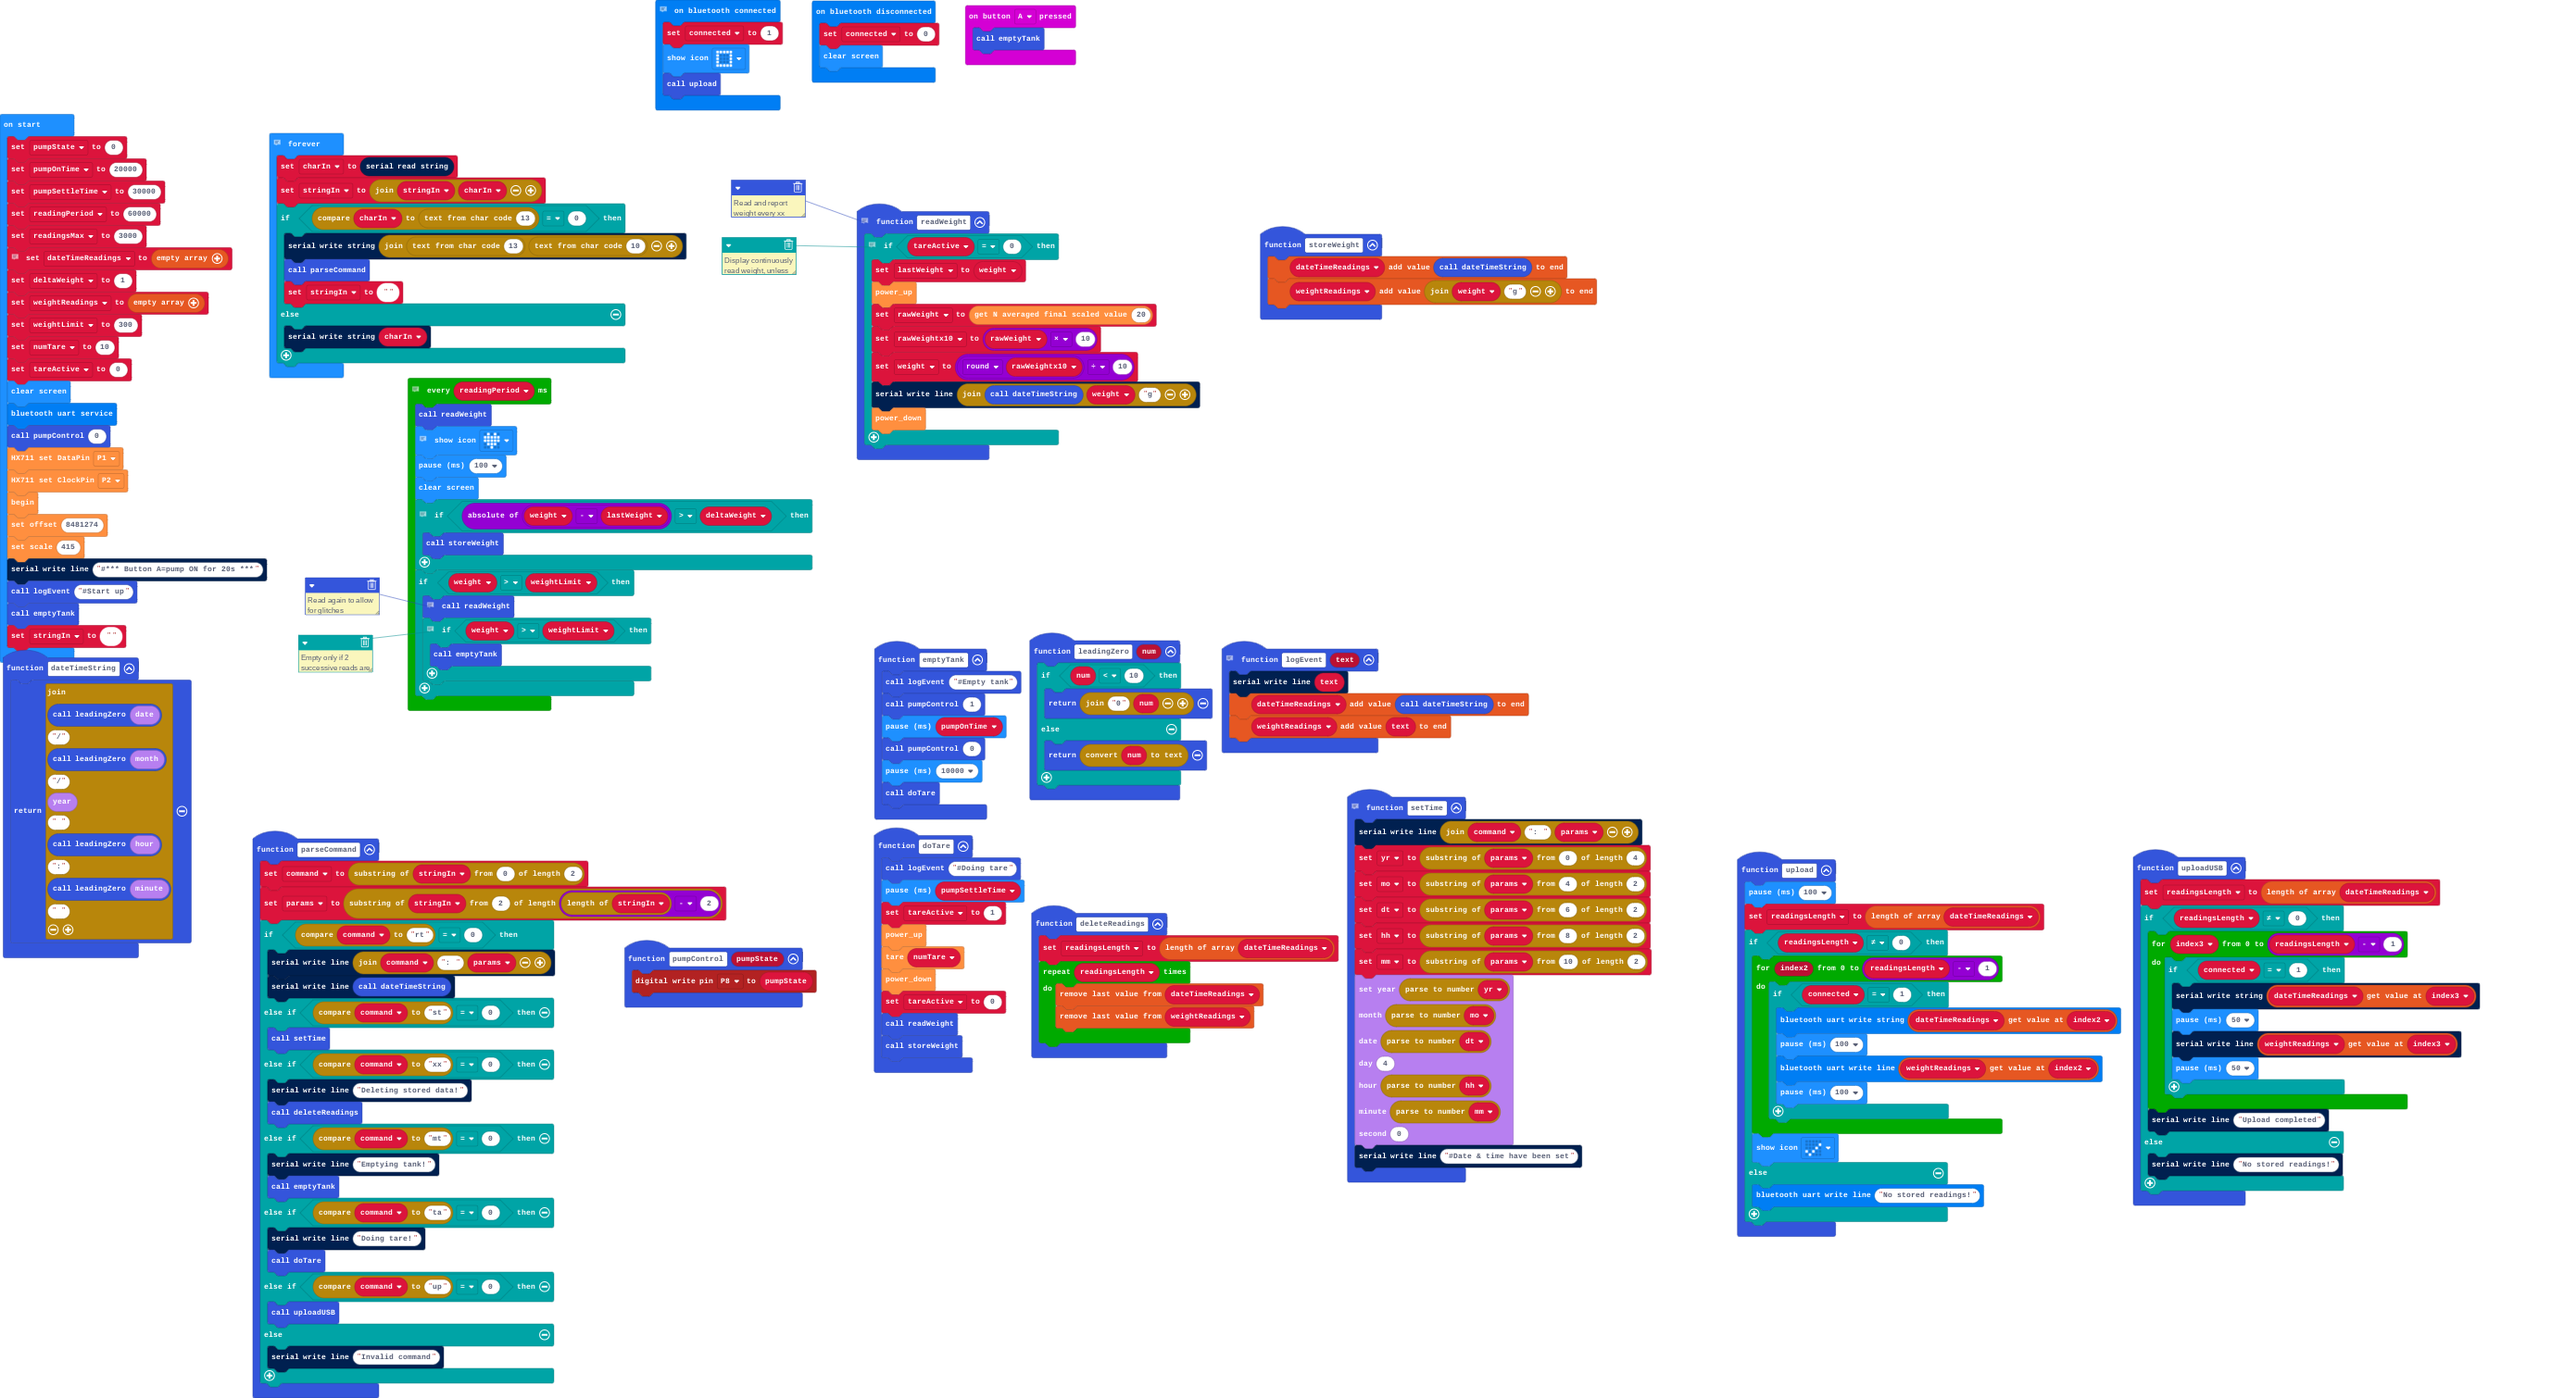
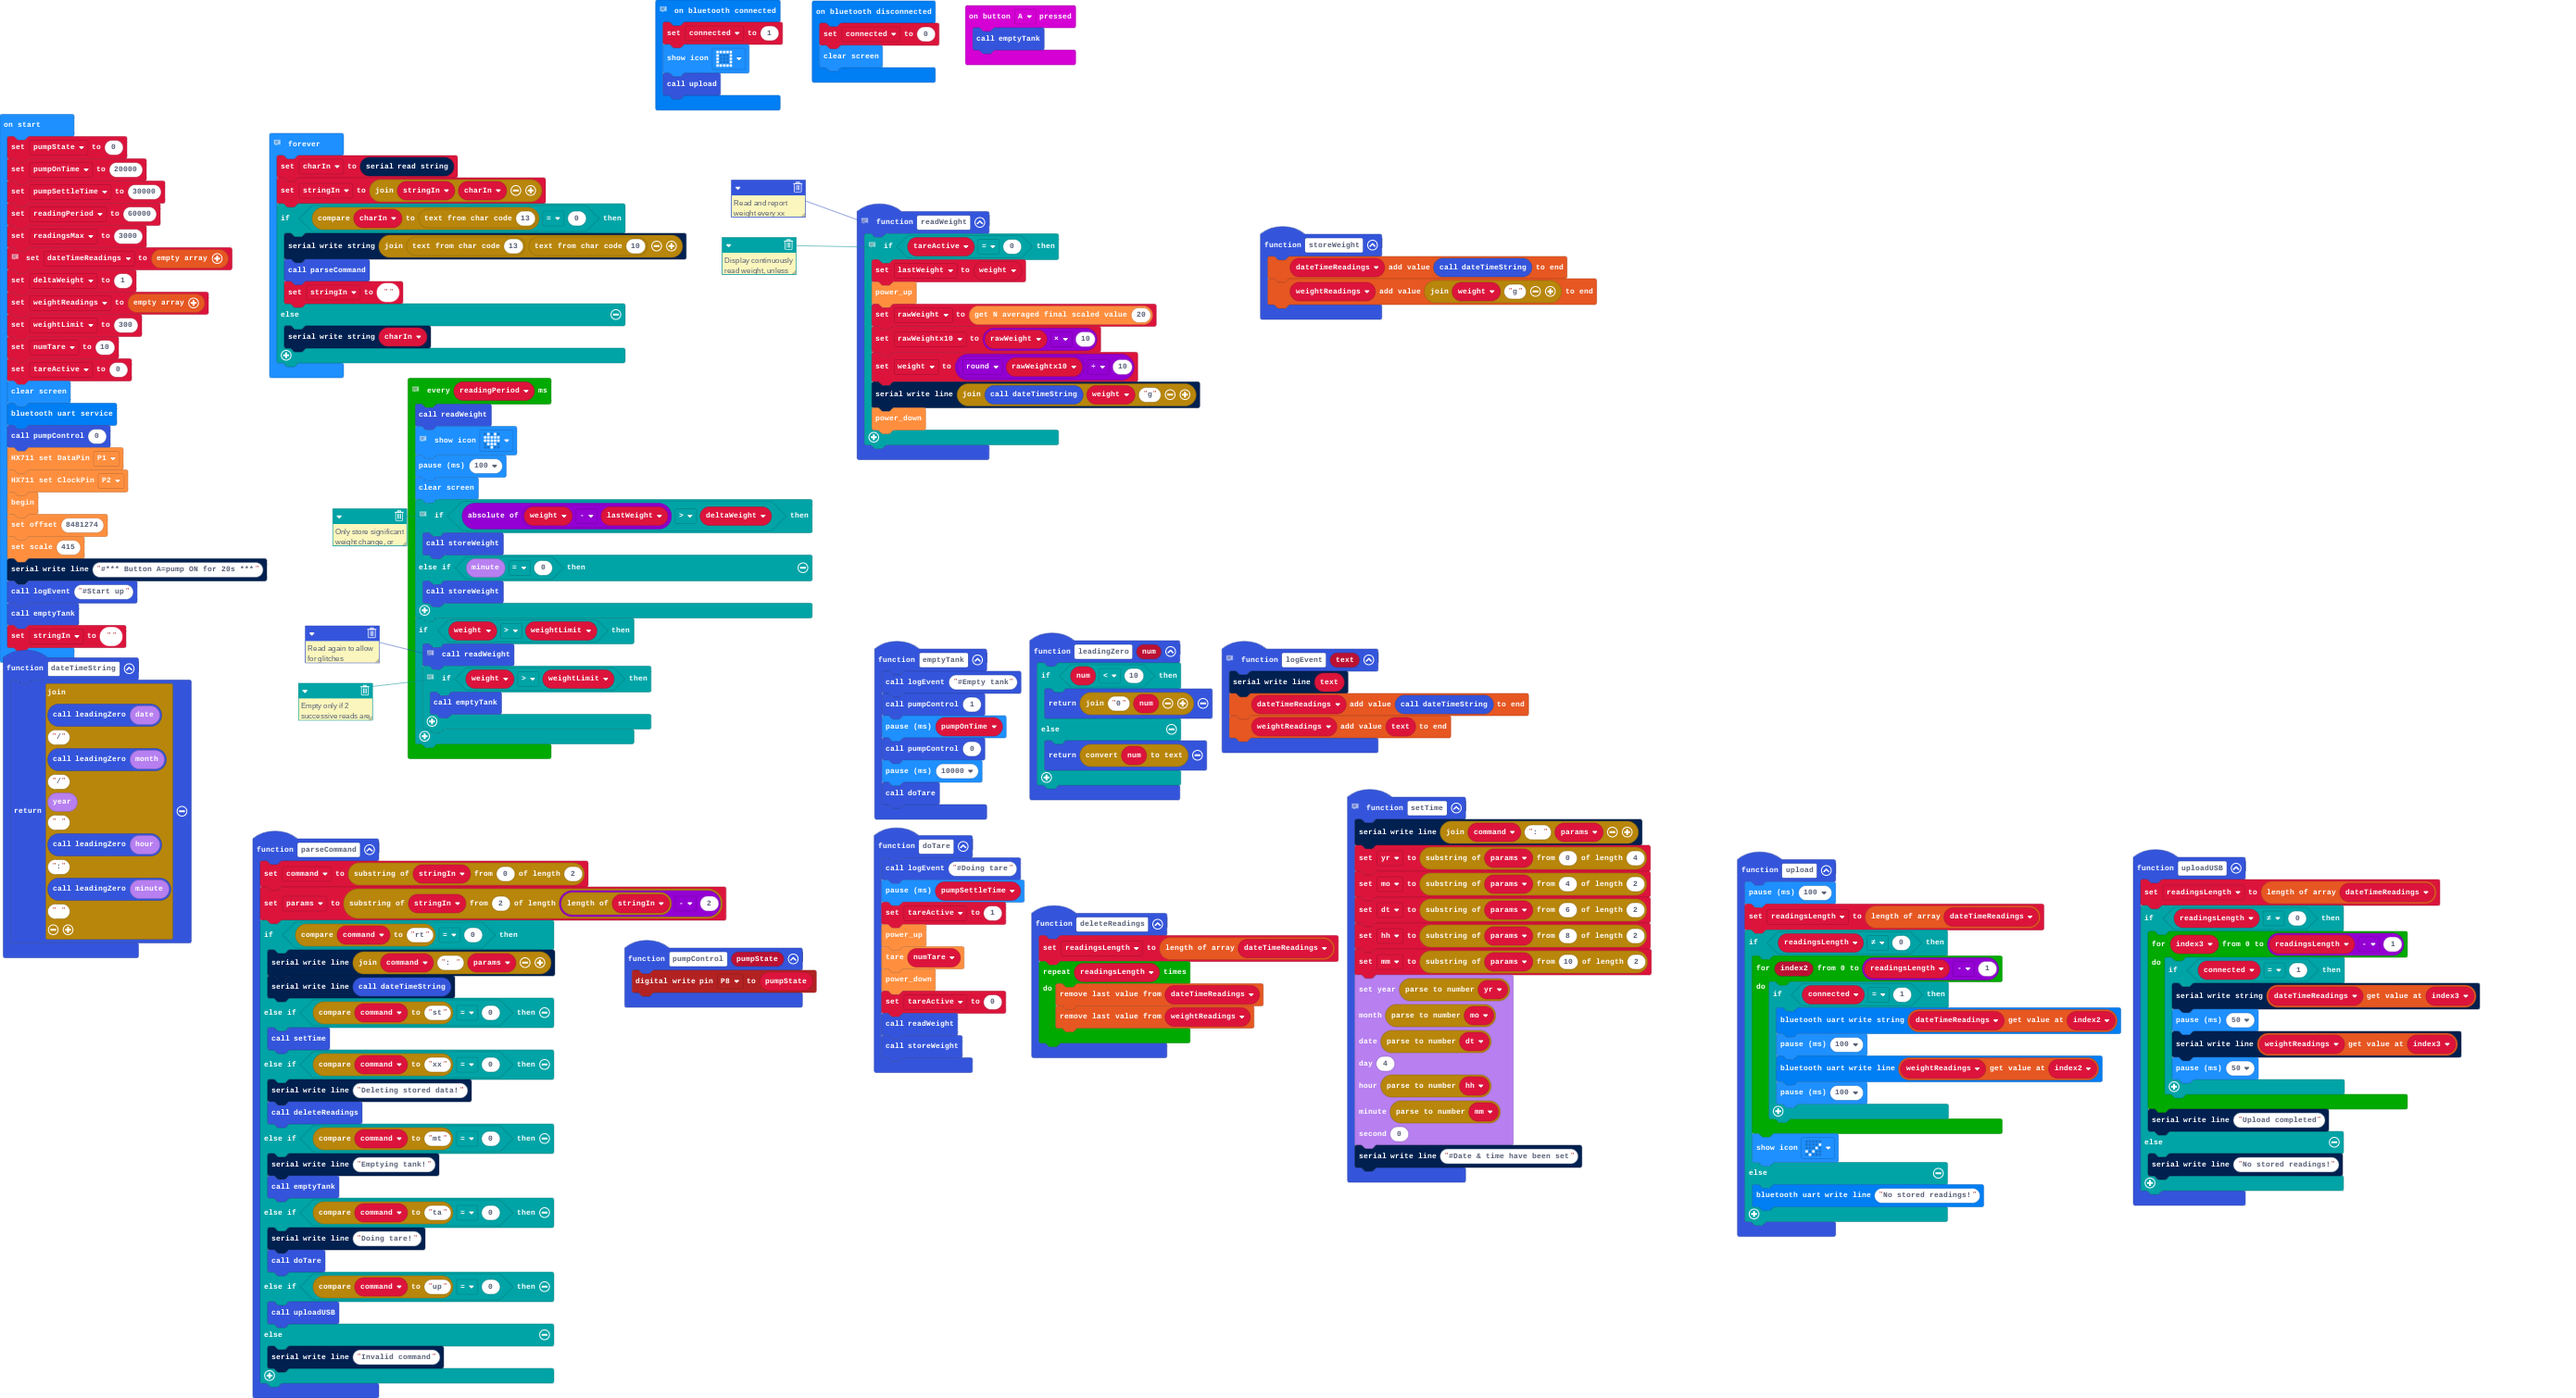
added hourly read

Changed region(s): [[0.0928, 0.3424, 0.3092, 0.5603]]

diff --git a/main.ts b/main.ts
@@ -212,8 +212,10 @@ loops.everyInterval(readingPeriod, function () {
     basic.showIcon(IconNames.Heart)
     basic.pause(100)
     basic.clearScreen()
-    // Only store significant weight change
+    // Only store significant weight change, or when minutes=0 (hourly store)
     if (Math.abs(weight - lastWeight) > deltaWeight) {
+        storeWeight()
+    } else if (DS3231.minute() == 0) {
         storeWeight()
     }
     if (weight > weightLimit) {
